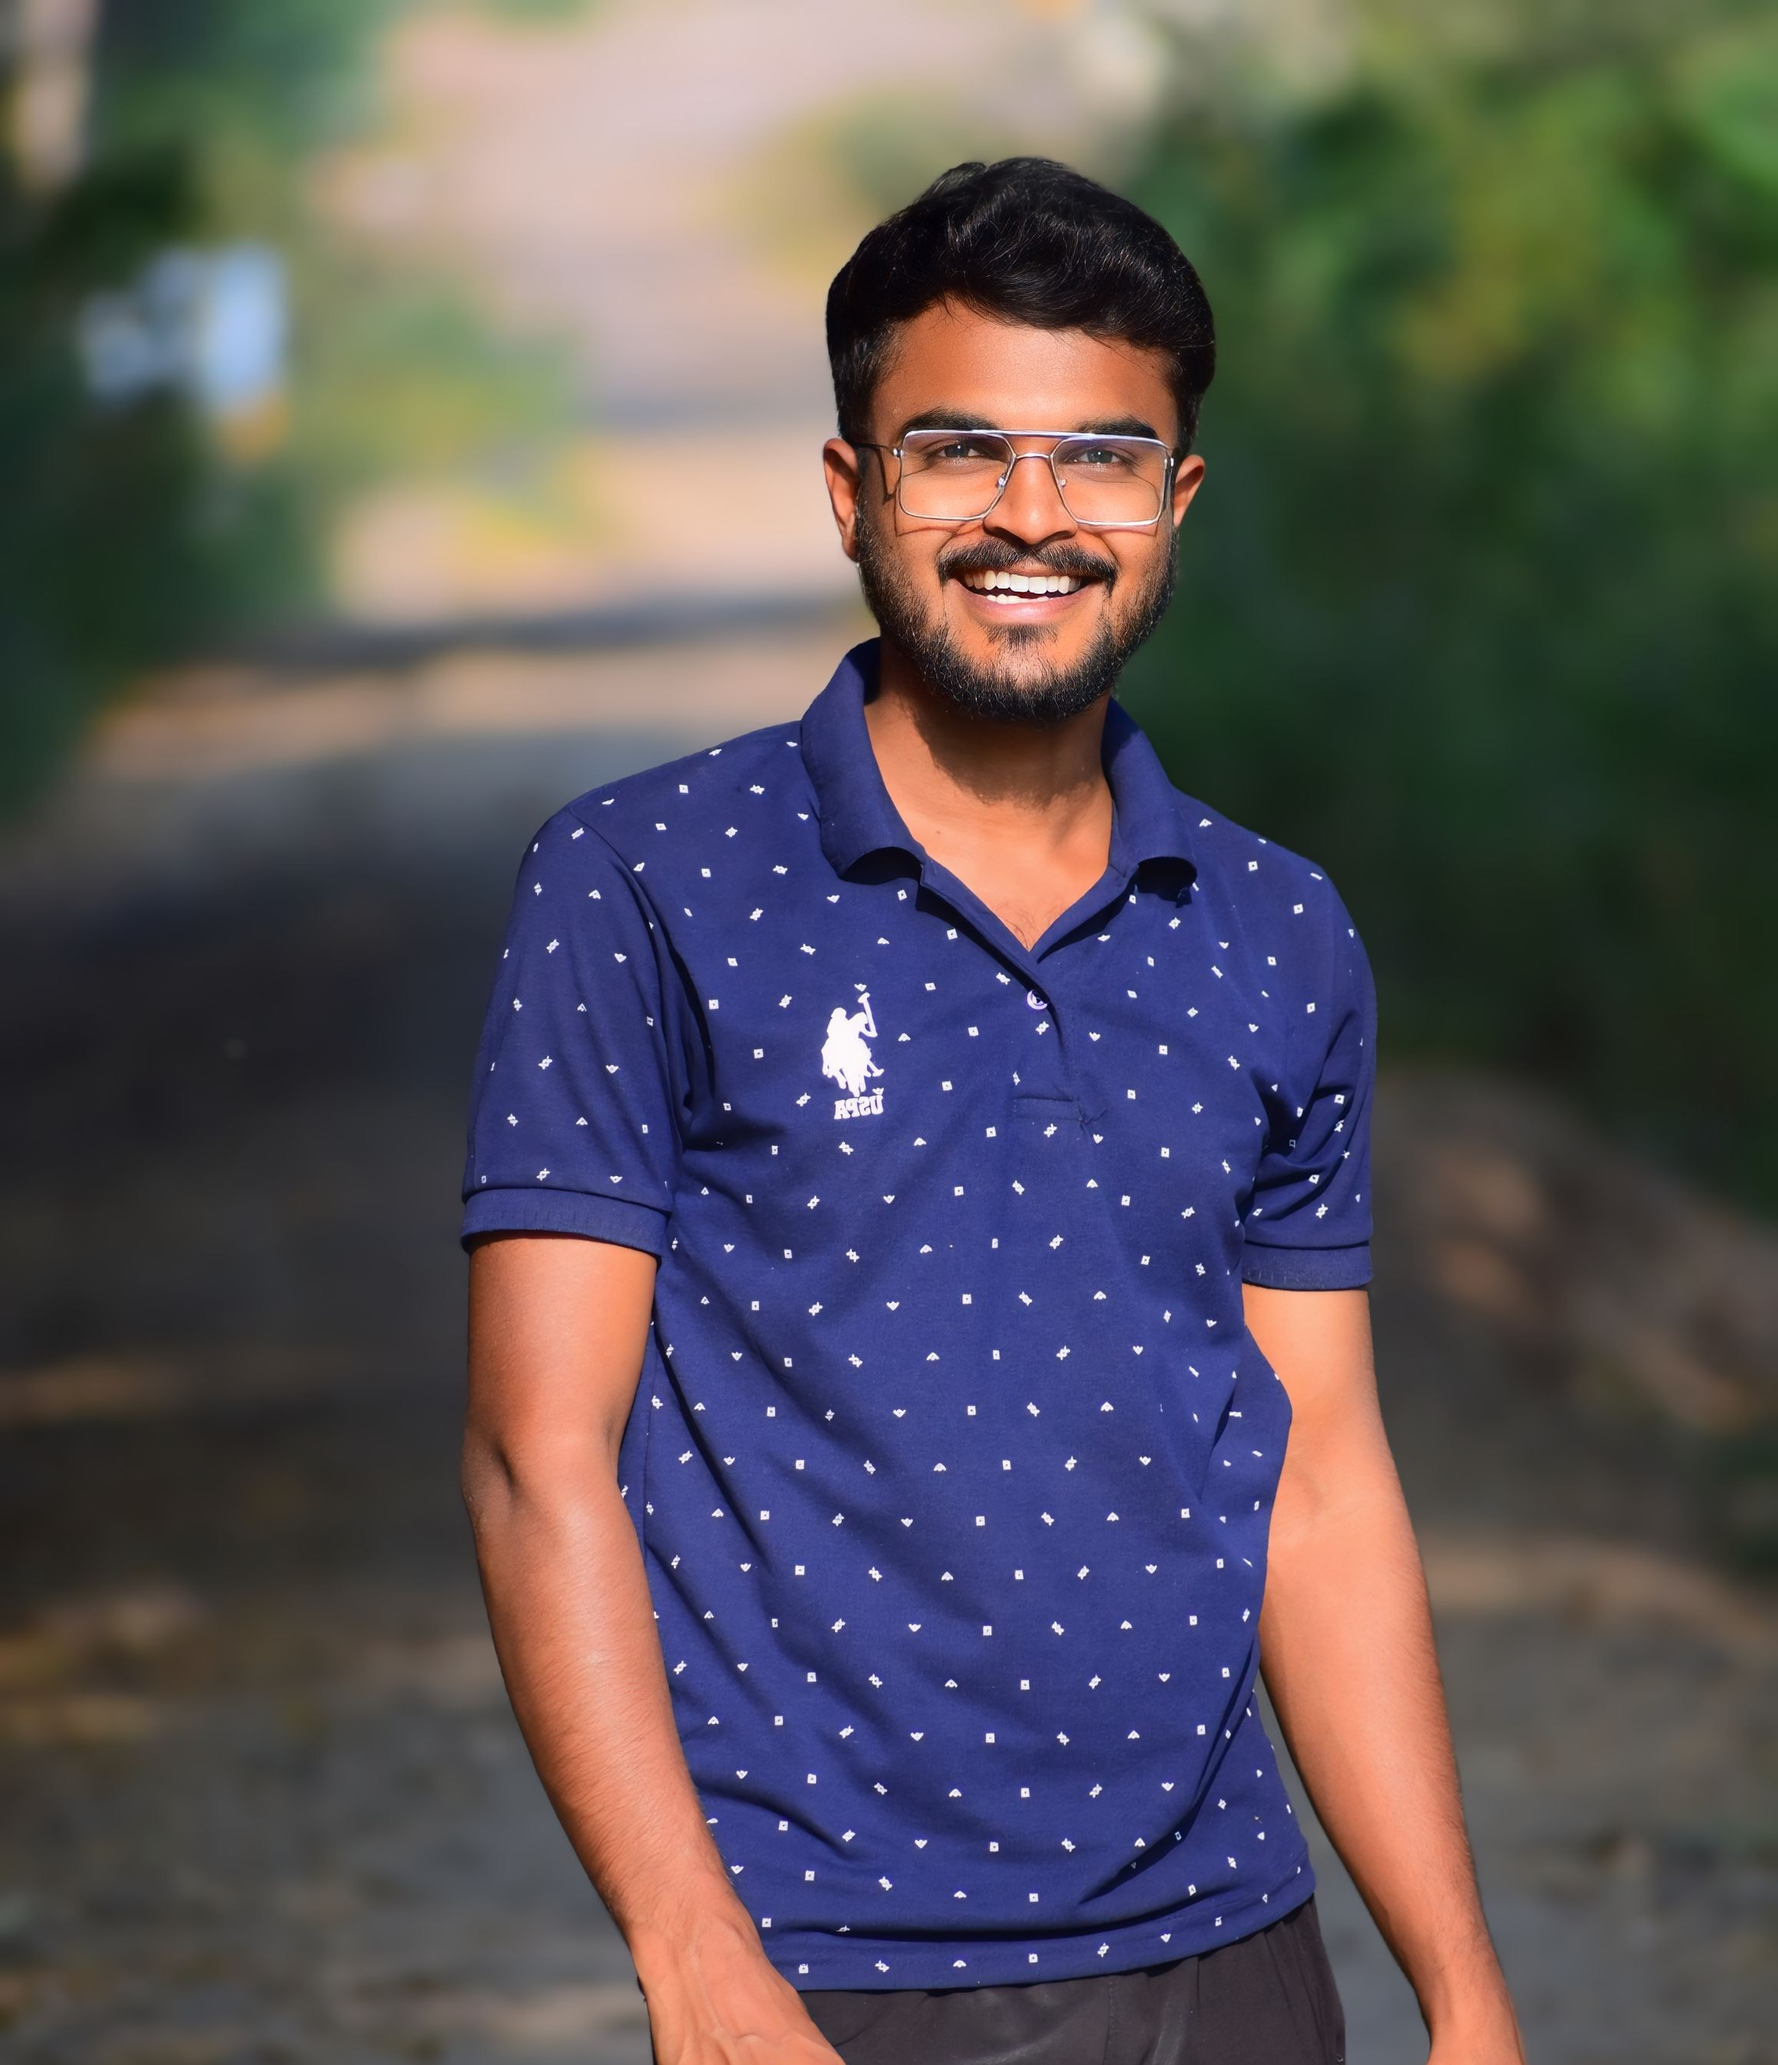
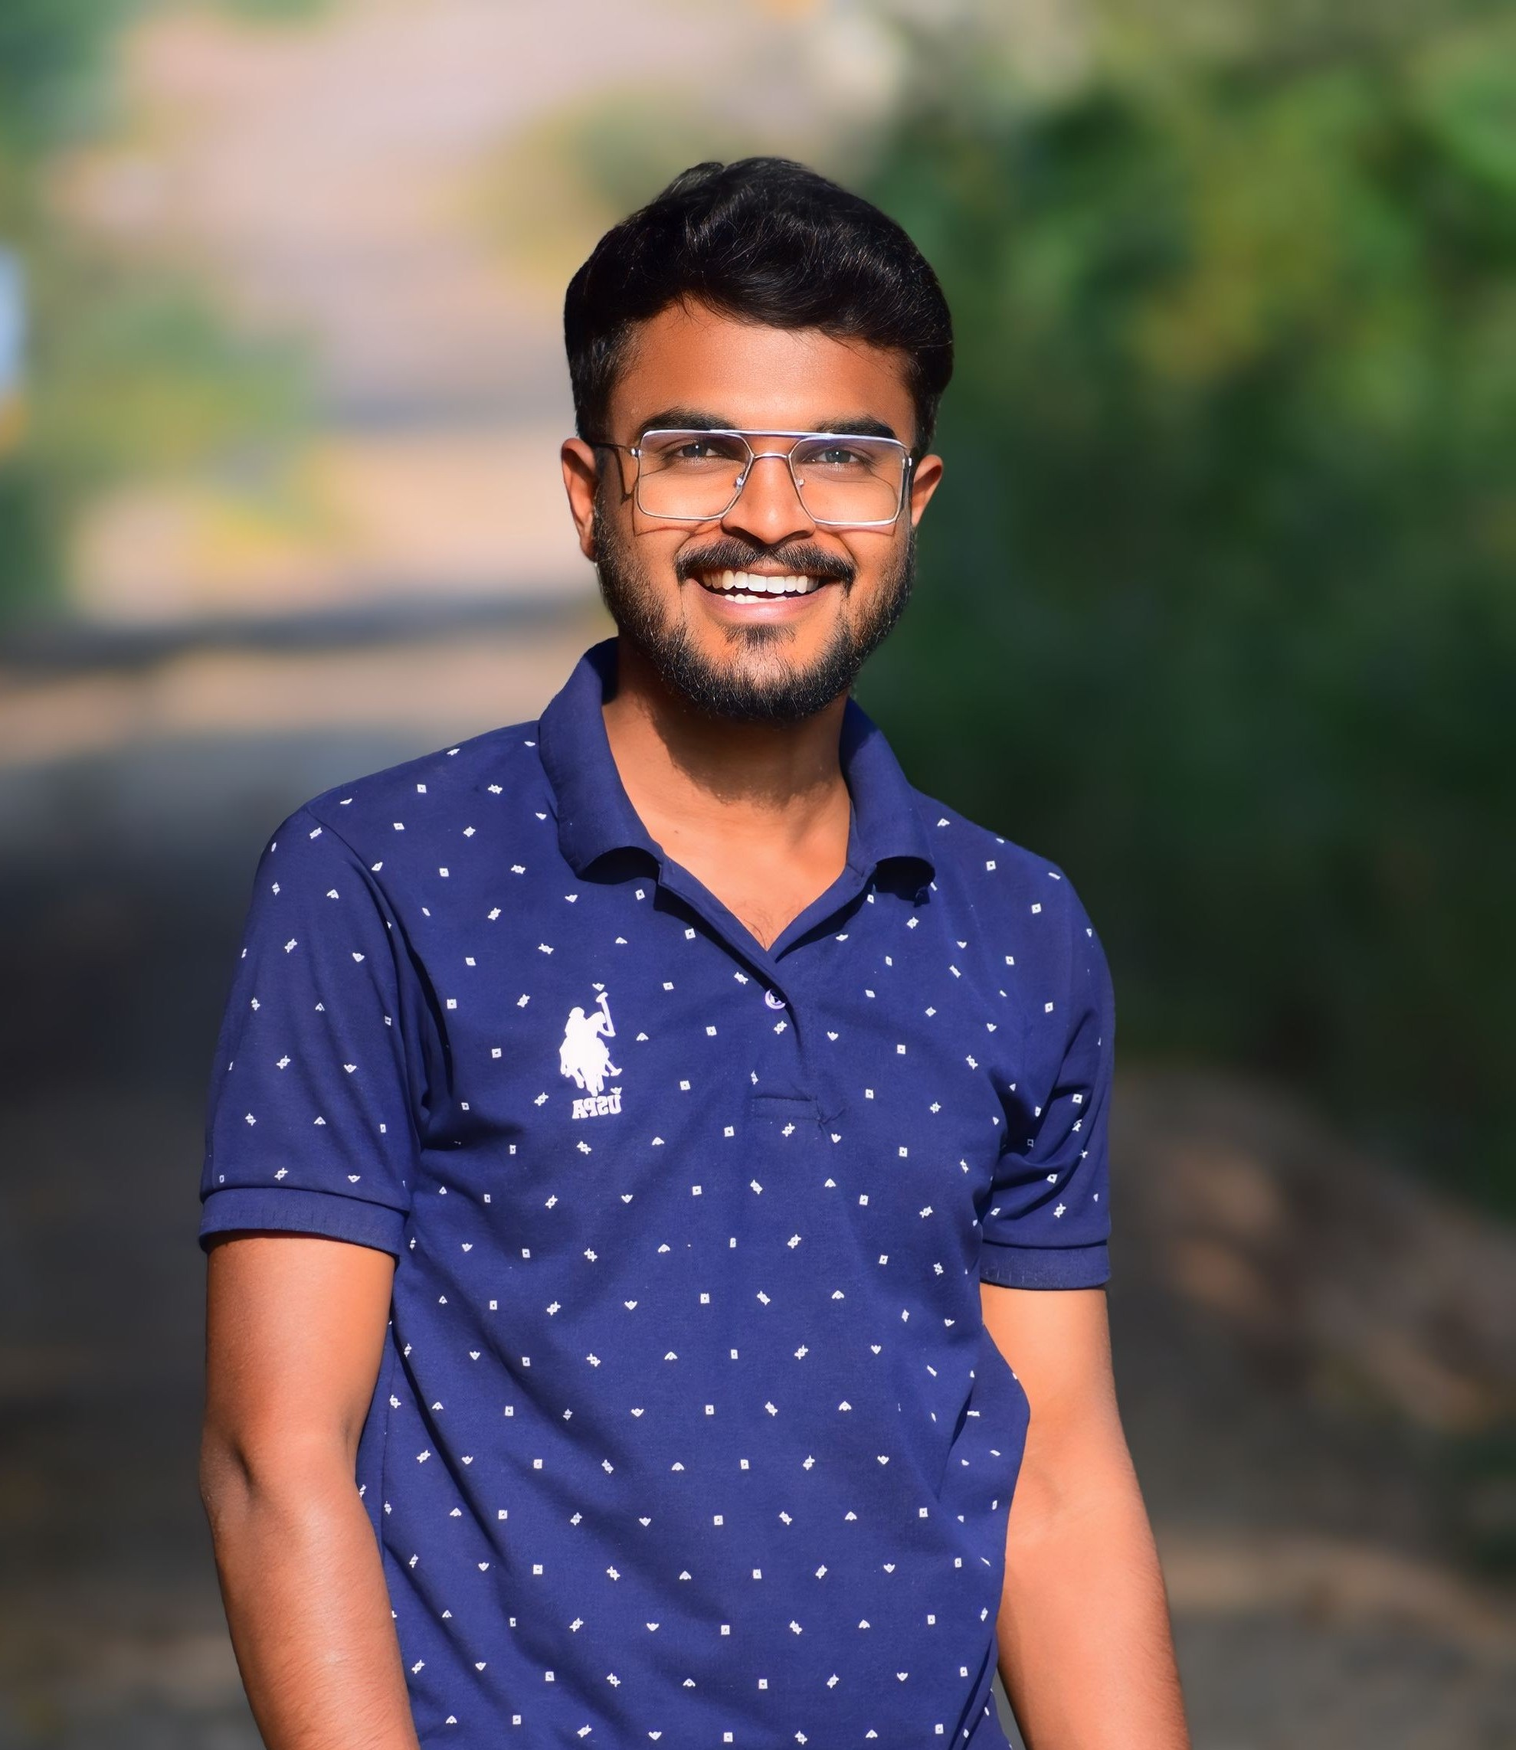
resize image

diff --git a/src/components/MenuBar.jsx b/src/components/MenuBar.jsx
@@ -9,9 +9,9 @@ const MenuBar = () => {
 
     const menuItems = [
         { name: "Home", icon: <Home className="w-5 h-5" />, href: "/" },
-        { name: "Github", icon: <Github className="w-5 h-5" />, href: "https://github.com/vcode" },
-        { name: "Linkedin", icon: <Linkedin className="w-5 h-5" />, href: "https://linkedin.com/in/vcode" },
-        { name: "Leetcode", icon: <Code2 className="w-5 h-5" />, href: "https://leetcode.com/vcode" },
+        { name: "Github", icon: <Github className="w-5 h-5" />, href: "https://github.com/Vaibhu18" },
+        { name: "Linkedin", icon: <Linkedin className="w-5 h-5" />, href: "https://linkedin.com/in/vaibhu18" },
+        { name: "Leetcode", icon: <Code2 className="w-5 h-5" />, href: "https://leetcode.com/Vaibhav-dev18" },
         {
             name: theme === "light" ? "Dark" : "Light",
             icon: theme === "light" ? <Sun className="w-5 h-5" /> : <Moon className="w-5 h-5" />,
@@ -20,8 +20,8 @@ const MenuBar = () => {
     ];
 
     return (
-        <div className="fixed bottom-6 left-1/2 -translate-x-1/2 w-[95%] sm:max-w-md z-50">
-            <div className="flex justify-around items-center px-2 py-2 bg-white/80 dark:bg-gray-900/80 backdrop-blur-xl border border-white/30 dark:border-gray-700/50 shadow-2xl rounded-2xl transition-all duration-300 ease-out hover:shadow-3xl">
+        <div className="fixed bottom-2 left-1/2 -translate-x-1/2 w-[95%] sm:max-w-md z-50">
+            <div className="flex justify-around items-center px-2 py-2 bg-gray-200/50 dark:bg-zinc-900/80 backdrop-blur-sm border border-gray-500/10 dark:border-gray-700/50 shadow-2xl rounded-2xl transition-all duration-300 ease-out hover:shadow-3xl">
                 {menuItems.map((item) => {
                     const isThemeToggle = !!item.action;
 
@@ -46,12 +46,12 @@ const MenuBar = () => {
                                 </span>
                             </div>
 
-                            <span className="text-[11px] font-semibold tracking-tight opacity-90">
+                            <span className="text-[11px] font-semibold tracking-tight text-black dark:text-white">
                                 {item.name}
                             </span>
 
                             {/* Active indicator dot */}
-                            <div className="absolute -bottom-1 w-1 h-1 bg-blue-500 rounded-full opacity-0 group-hover:opacity-100 transition-opacity duration-200" />
+                            <div className="absolute -bottom-1 w-10 h-0.5 bg-blue-500 rounded-full opacity-0 group-hover:opacity-100 transition-opacity duration-200" />
                         </Wrapper>
                     );
                 })}
